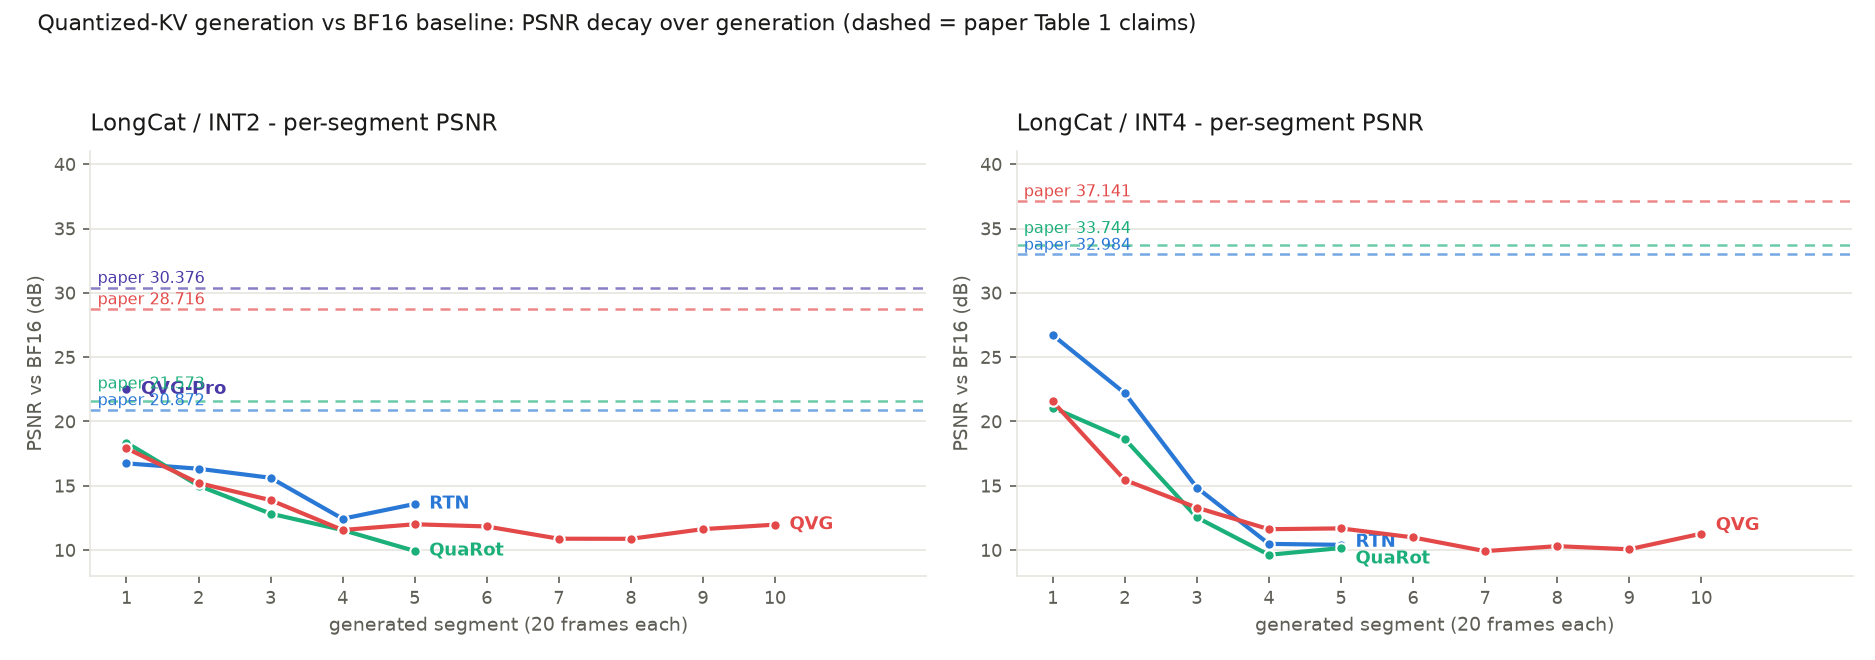
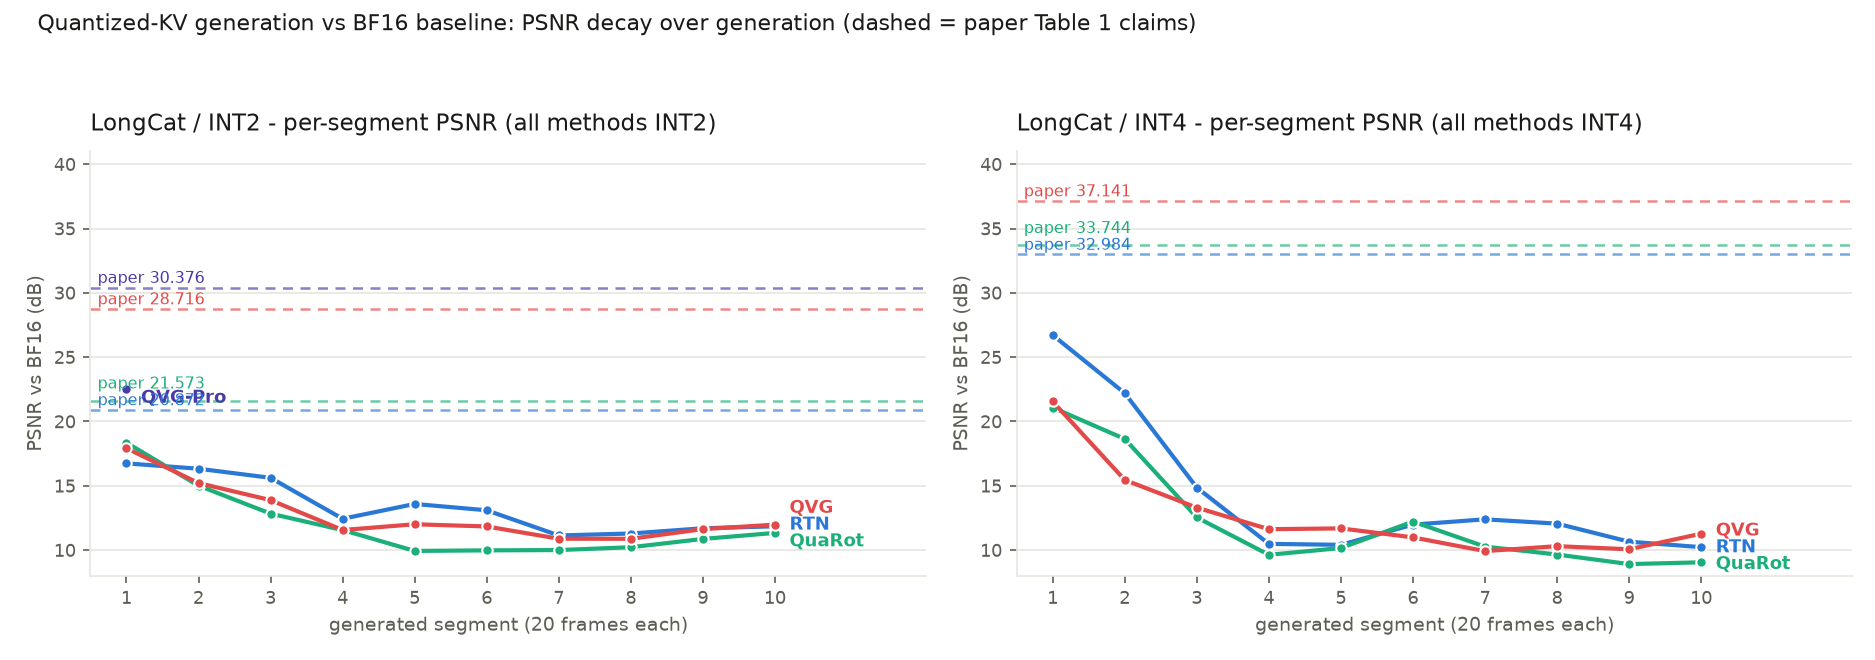
repro: extend LC baselines to 10 segments in trend chart; determinism cross-check 0.008-0.027 dB

diff --git a/repro/REPORT.md b/repro/REPORT.md
@@ -97,7 +97,9 @@
 图读三点：
 1. **所有方法在第 1-3 段/块内快速衰减后饱和到 10-17 dB**——量化误差经自回归反馈进入内容级漂移后，PSNR 与量化精度基本脱钩（INT4 与 INT2 的饱和水平几乎相同）。
 2. **paper 的虚线全部悬在实测曲线上方**，且大致与"第 1 块附近"的实测水平相当（HY 的第 1 块实测 34-38 vs paper 33.6-34.5）——直观呈现了"Table 1 测的是漂移起点"这一结论。
-3. HY 的第 1 块（量化尚未生效）在 34-36 dB，是两条 run 的数值/编码噪声底；LC 的 QVG 全程略高于基线（红线在 4 段后高于蓝绿），但差距 ~1-2 dB，远小于 paper 声称的 7-8 dB。
+3. HY 的第 1 块（量化尚未生效）在 34-36 dB，是两条 run 的数值/编码噪声底。
+4. LC 两个面板均为同位宽内的方法互比（10 段全程）：INT2 下三方法从第 4 段起收敛到 10-13 dB 区间内互相交叉，INT4 下 RTN 的起点优势（26.7 vs 21.5）也在第 4 段被混沌抹平——**任何方法间差距在长时程下都会消失**，paper 声称的方法间 3-8 dB 差距只在起点窗口存在。
+5. 附：确定性方法（RTN/QuaRot）的 10 段 run 与 5 段 run 前 5 段逐帧最大差异仅 0.008-0.027 dB——测量管线的可复现性验证。
 
 ## 二、机理（为何全视频 PSNR 不可能达到 Table 1）
 